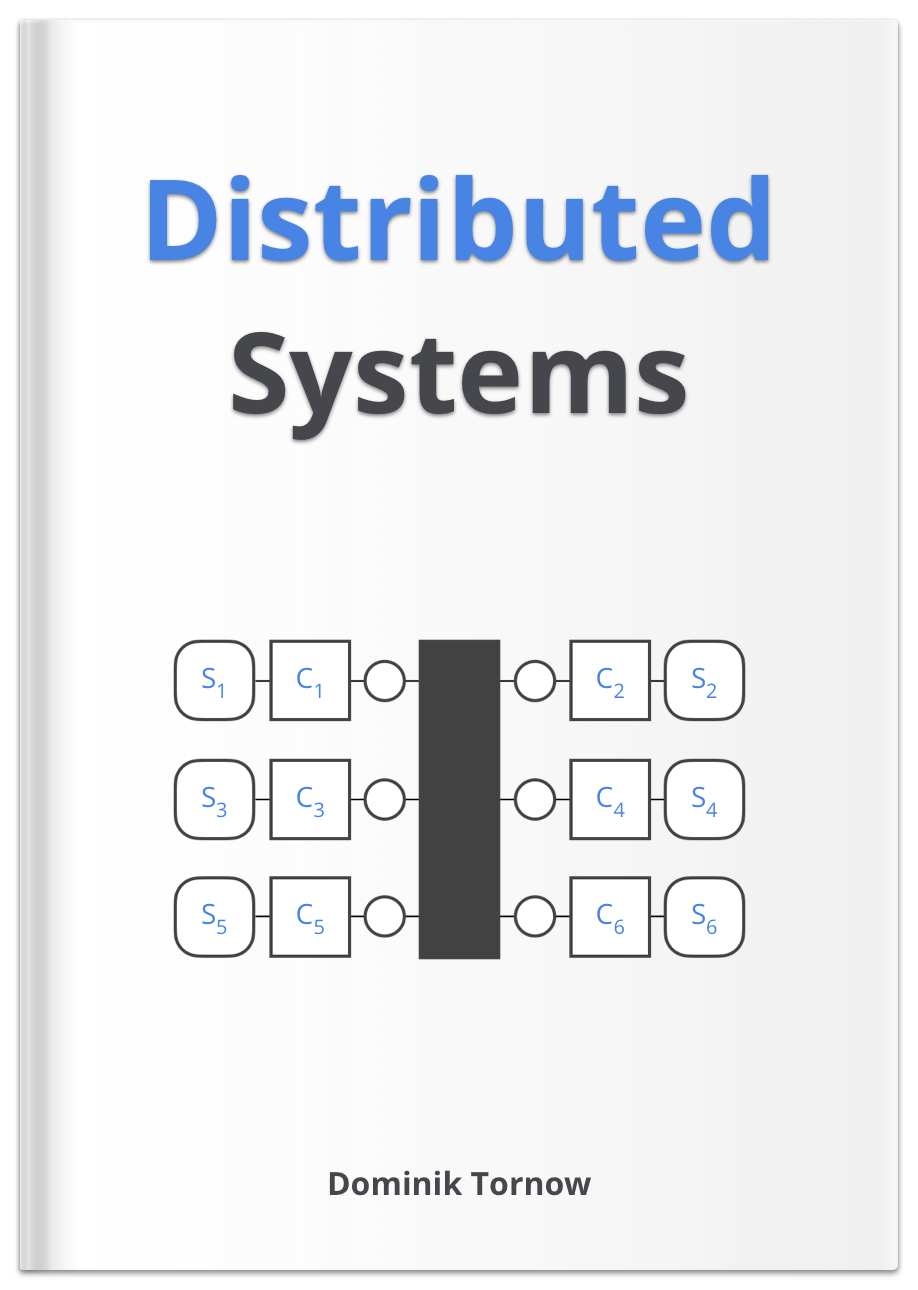
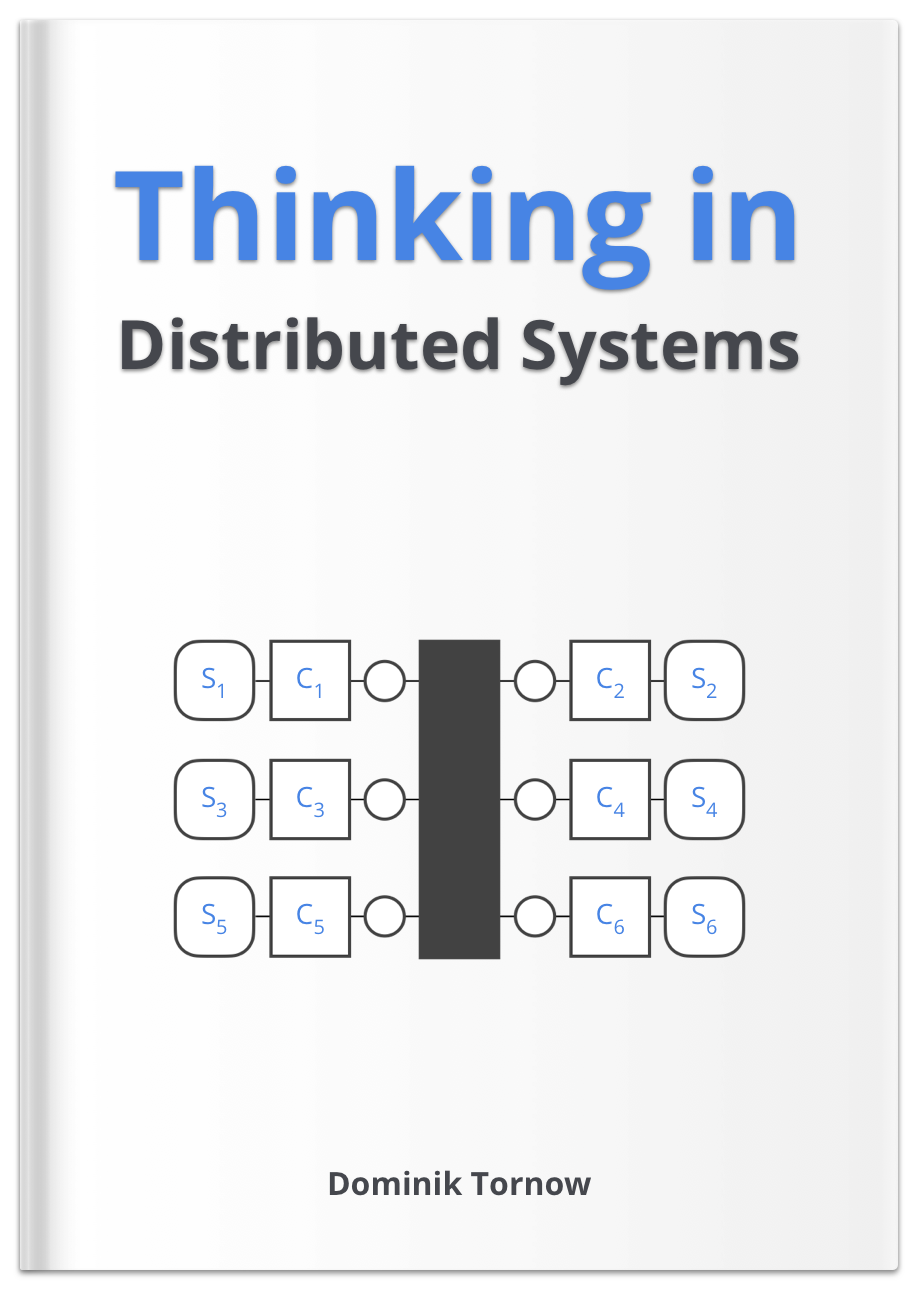
new cover

Changed region(s): [[0.122, 0.124, 0.8845, 0.3411]]

diff --git a/index.html b/index.html
@@ -57,22 +57,22 @@
 			    <div class="col-12 col-md-7 pt-5 mb-5 align-self-center">
 				    <div class="promo pe-md-3 pe-lg-5">
 					    <h1 class="headline mb-3">
-						    Mastering Distributed Systems   
+						    Thinking in Distributed Systems   
 					    </h1><!--//headline-->
 					    <div class="subheadline mb-4">
-						    12 chapters, one chapter per month, full of diagrams, illustrations, and examples, all about distributed systems. Plus an invitation to join the conversation on discord.
-						    
+						    12 chapters, one chapter per month, full of diagrams, illustrations, and examples, all about distributed systems. Plus an invitation to join the conversation on discord.	    
 					    </div><!--//subheading-->
-					    
 					    <div class="cta-holder row gx-md-3 gy-3 gy-md-0">
 						    <div class="col-12 col-md-auto">
 						        <a class="btn btn-primary w-100" href="https://dtornow.gumroad.com/l/distributed-systems">Buy for $75</a>
 						    </div>
-						    <div class="col-12 col-md-auto">
+						    <div class="col-12 col-md-auto" style="margin-bottom: 12px">
 						        <a class="btn btn-secondary w-100" href="assets/chapters/Preface.pdf">Read the Preface</a>
 						    </div>
 					    </div><!--//cta-holder-->
-					    
+					    <div class="mb-4">
+						    10 % off in January 2023 • 30 days money back, no questions asked
+					    </div><!--//subheading-->
 				    </div><!--//promo-->
 			    </div><!--col-->
 			    <div class="col-12 col-md-5 mb-5 align-self-center">
@@ -176,9 +176,10 @@
 				    <div class="col-12 col-md-6 mb-5">
 					    <div class="key-points mb-4 text-center">
 						    <ul class="key-points-list list-unstyled mb-4 mx-auto d-inline-block text-start">
-							    <li><i class="fas fa-check-circle me-2"></i>Chapter 1 • Inroduction (Free Chapter)</li>
-							    <li><i class="fas fa-check-circle me-2"></i>Chapter 2 • System Models</li>
-							    <li><i class="fas fa-check-circle me-2"></i>Chapter 3 • Network Models</li>
+							    <li><i class="fas fa-check-circle me-2"></i><a href="assets/chapters/Preface.pdf">Preface</a></li>
+								<li><i class="fas fa-check-circle me-2"></i>Chapter 1 • Introduction</li>
+							    <li><i class="fas fa-check-circle me-2"></i>Chapter 2 • TBD</li>
+							    <li><i class="fas fa-check-circle me-2"></i>Chapter 3 • TBD</li>
 							    <li><i class="fas fa-check-circle me-2"></i>Chapter 4 • TBD</li>
 							    <li><i class="fas fa-check-circle me-2"></i>Chapter 5 • TBD</li>
 							    <li><i class="fas fa-check-circle me-2"></i>Chapter 6 • TBD</li>
